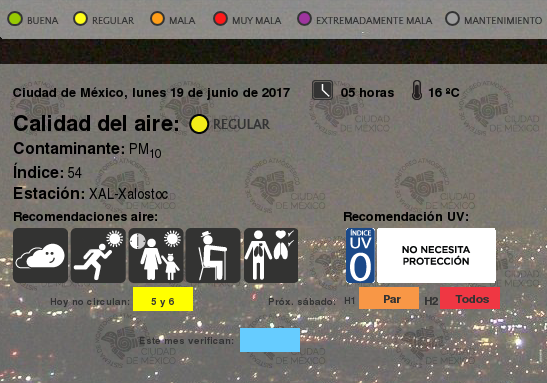
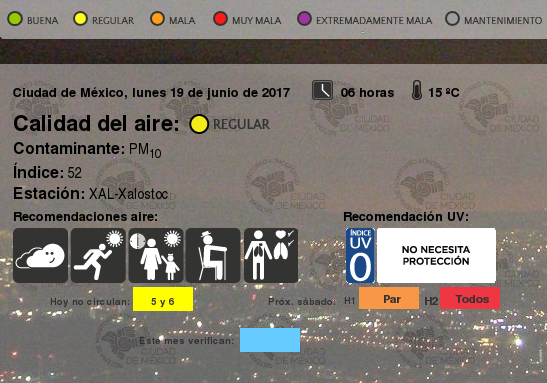
update images 19-06-2017 06:20

diff --git a/README.md b/README.md
@@ -5492,3 +5492,4 @@
 |19-06-2017 05:50
 |19-06-2017 06:03
 |19-06-2017 06:11
+|19-06-2017 06:20
